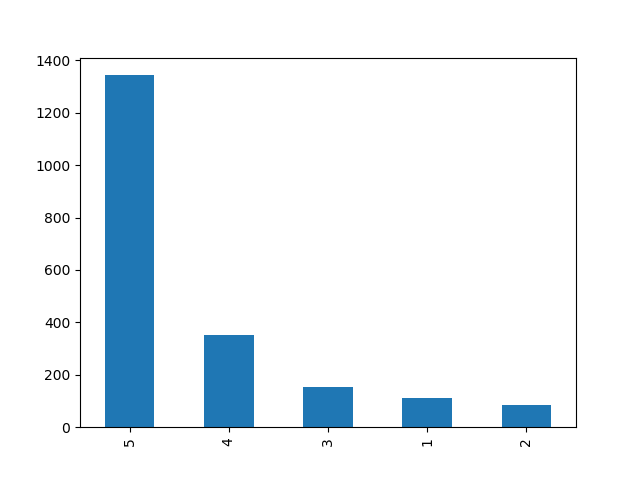
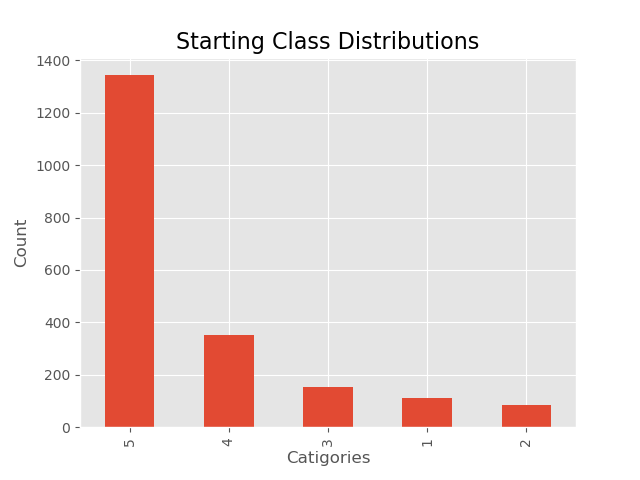
improved images

diff --git a/src/ModelCompare.py b/src/ModelCompare.py
@@ -20,7 +20,10 @@ def Get_Corpus(fileName, get_y = True, is_WordVec = False, plot = False):
   df = pq.read_table(fileName).to_pandas()
   if plot:
     barplotdf = df['star_rating'].value_counts()
-    barplotdf.plot(kind='bar')
+    ax = barplotdf.plot(kind='bar')
+    ax.set_xlabel('Catigories', fontsize=12)
+    ax.set_ylabel('Count', fontsize=12)
+    ax.set_title("Starting Class Distributions", fontsize=16)
     plt.savefig('images/starting_class_distributions.png')
   if is_WordVec:
     word_vec=[]
@@ -56,12 +59,10 @@ def scree_plot(ax, pca, title='PCA Scree Plot'):
     title: str
       A title for the scree plot.
     """
-    num_components = pca.n_components_
-    ind = np.arange(num_components)
     vals = pca.explained_variance_ratio_
-    ax.plot(ind, vals, color='blue')
-    ax.scatter(ind, vals, color='blue', s=50)
-    ax.axvline(x=250)
+    cum_var = np.cumsum(vals)
+    ax.plot(range(len(vals) + 1), np.insert(cum_var, 0, 0), color='blue', marker='o')
+    ax.axvline(x=1000)
 
     ax.set_xlabel("Principal Component", fontsize=12)
     ax.set_ylabel("Variance Explained (%)", fontsize=12)
@@ -74,7 +75,10 @@ def Smote(X, y, random_state = 42, k_neighbors=3, plot = False):
       if plot:
         df_temp = pd.DataFrame(y_smt, columns=['star_rating'])
         df_temp = df_temp['star_rating'].value_counts()
-        df_temp.plot(kind='bar')
+        ax = df_temp.plot(kind='bar')
+        ax.set_xlabel('Catigories', fontsize=12)
+        ax.set_ylabel('Count', fontsize=12)
+        ax.set_title("SMOTED Class Distributions", fontsize=16)
         plt.savefig('images/SMOTE_class_distributions.png')
       return X_smt, y_smt
 
@@ -127,8 +131,8 @@ def Document_Save_to_file(filename, corpus, word_vec):
           f.write('\n')
 
 if __name__ == "__main__":
-    y, corpus = Get_Corpus('data/Amz_book_review_medium.parquet', plot=False)
-    word_vec = Get_Corpus('data/Amz_book_review_medium_vector.parquet', get_y=False, is_WordVec=True)
+    y, corpus = Get_Corpus('data/Amz_book_review_short.parquet', plot=True)
+    word_vec = Get_Corpus('data/Amz_book_review_short_vector.parquet', get_y=False, is_WordVec=True)
     
     # corpus_big, corpus_short, y_big, y_short = ModelSplitting(corpus, y, .25)
     # word_vec, word_vec_short, y_big, y_short = ModelSplitting(word_vec, y, .25)
@@ -144,7 +148,7 @@ if __name__ == "__main__":
                         ('tfidf', TfidfTransformer())
     ])
 
-    pca = PCA(n_components=250)
+    pca = PCA(n_components=1000)
     X_train_tfidf = text_vect.fit_transform(X_train_tfidf).todense()
     X_test_tfidf = text_vect.transform(X_test_tfidf).todense()
     X_train_tfidf = pca.fit_transform(X_train_tfidf)
@@ -154,7 +158,7 @@ if __name__ == "__main__":
     # scree_plot(ax, pca)
     # plt.savefig('images/Screeplot.png')
 
-    X_smt_tfidf, y_smt_tfidf = Smote(X_train_tfidf, y_train_tfidf)
+    X_smt_tfidf, y_smt_tfidf = Smote(X_train_tfidf, y_train_tfidf, plot=True)
     X_smt_vec_spacy, y_smt_vec_spacy = Smote(X_train_vec_spacy, y_train_vec_spacy)
     X_smt_vec_gensim, y_smt_vec_gensim = Smote(X_train_vec_gensim, y_train_tfidf)
 
